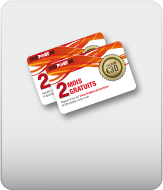
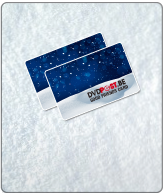
new image noel

diff --git a/public/stylesheets/style.css b/public/stylesheets/style.css
@@ -250,6 +250,10 @@ fieldset {
   background: url(../images/nav-bg.png) 0 0 no-repeat;
   text-shadow: 1px 1px 1px #000000;
 }
+#nav.noel li a
+{
+  background: url(../images/nav-bg_xmas.png) 0 100% no-repeat;
+}
 
 #nav li a:hover {
   text-decoration: none;

diff --git a/public/stylesheets/sponsorships.css b/public/stylesheets/sponsorships.css
@@ -102,7 +102,7 @@ vertical-align:middle;
 #tool-wrap #special-offer {
   float: left;
   width: 163px;
-  height: 190px;
+  height: 193px;
   background: url(../images/speciall-offer-bg.png) 0 0 no-repeat;
   margin-left: 20px;
 }
